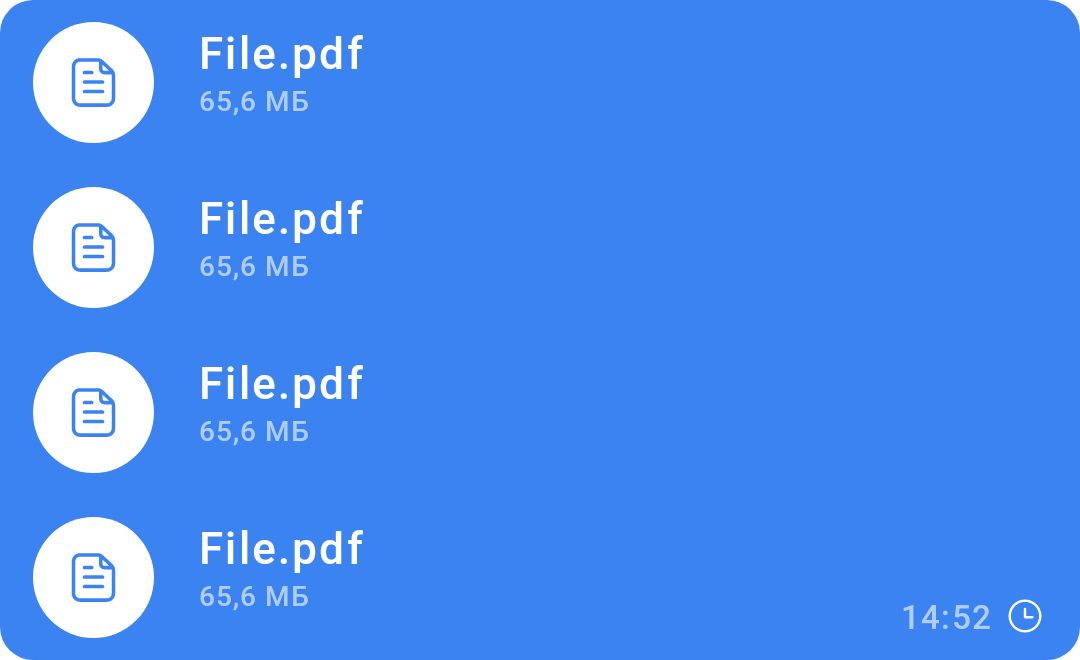
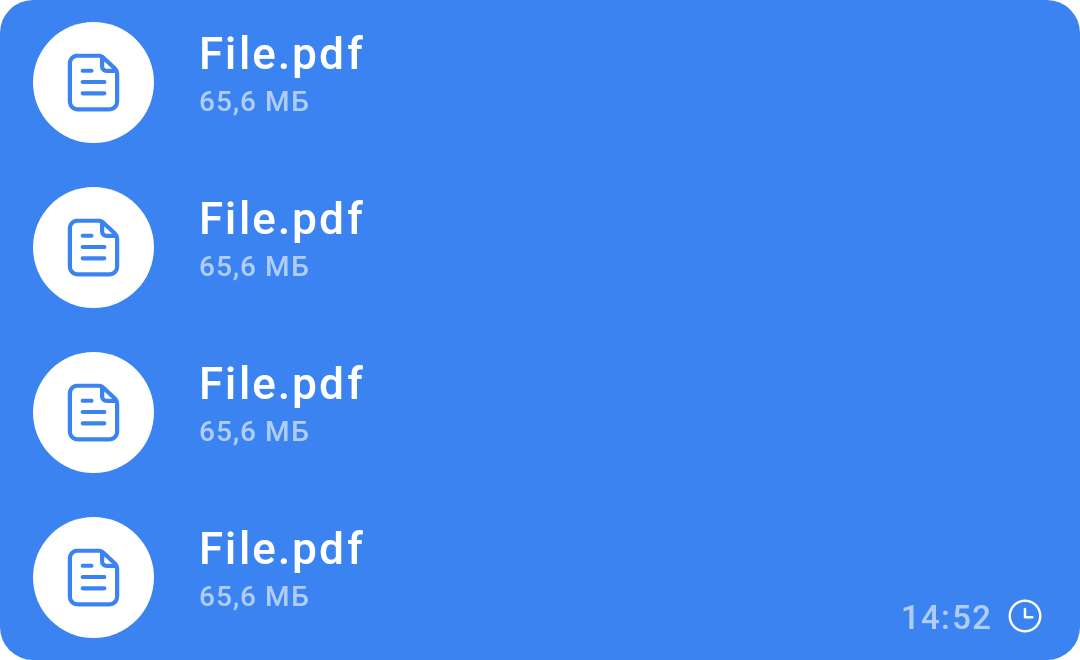
[TECH] - update screenshots

diff --git a/admiral-uikit/src/main/java/com/admiral/uikit/components/cell/unit/IconBackgroundCellUnit.kt b/admiral-uikit/src/main/java/com/admiral/uikit/components/cell/unit/IconBackgroundCellUnit.kt
@@ -7,7 +7,6 @@ import android.util.AttributeSet
 import android.view.LayoutInflater
 import androidx.constraintlayout.widget.ConstraintLayout
 import androidx.core.content.res.use
-import androidx.core.view.setPadding
 import com.admiral.themes.ColorPaletteEnum
 import com.admiral.themes.ColorPaletteEnum.Companion.colorResToToken
 import com.admiral.themes.Theme
@@ -83,9 +82,6 @@ class IconBackgroundCellUnit @JvmOverloads constructor(
 
     init {
         LayoutInflater.from(context).inflate(R.layout.admiral_view_cell_unit_icon_background, this)
-        layoutParams.apply {
-            setPadding(PADDING.dpToPx(context))
-        }
 
         imageView.background = drawable(R.drawable.admiral_bg_round)
 
@@ -207,6 +203,5 @@ class IconBackgroundCellUnit @JvmOverloads constructor(
         const val ALPHA_ENABLED = 1f
         const val ALPHA_DISABLED = 0.6f
         const val DEFAULT_SIZE_IMAGE = 44f
-        const val PADDING = 2f
     }
 }
